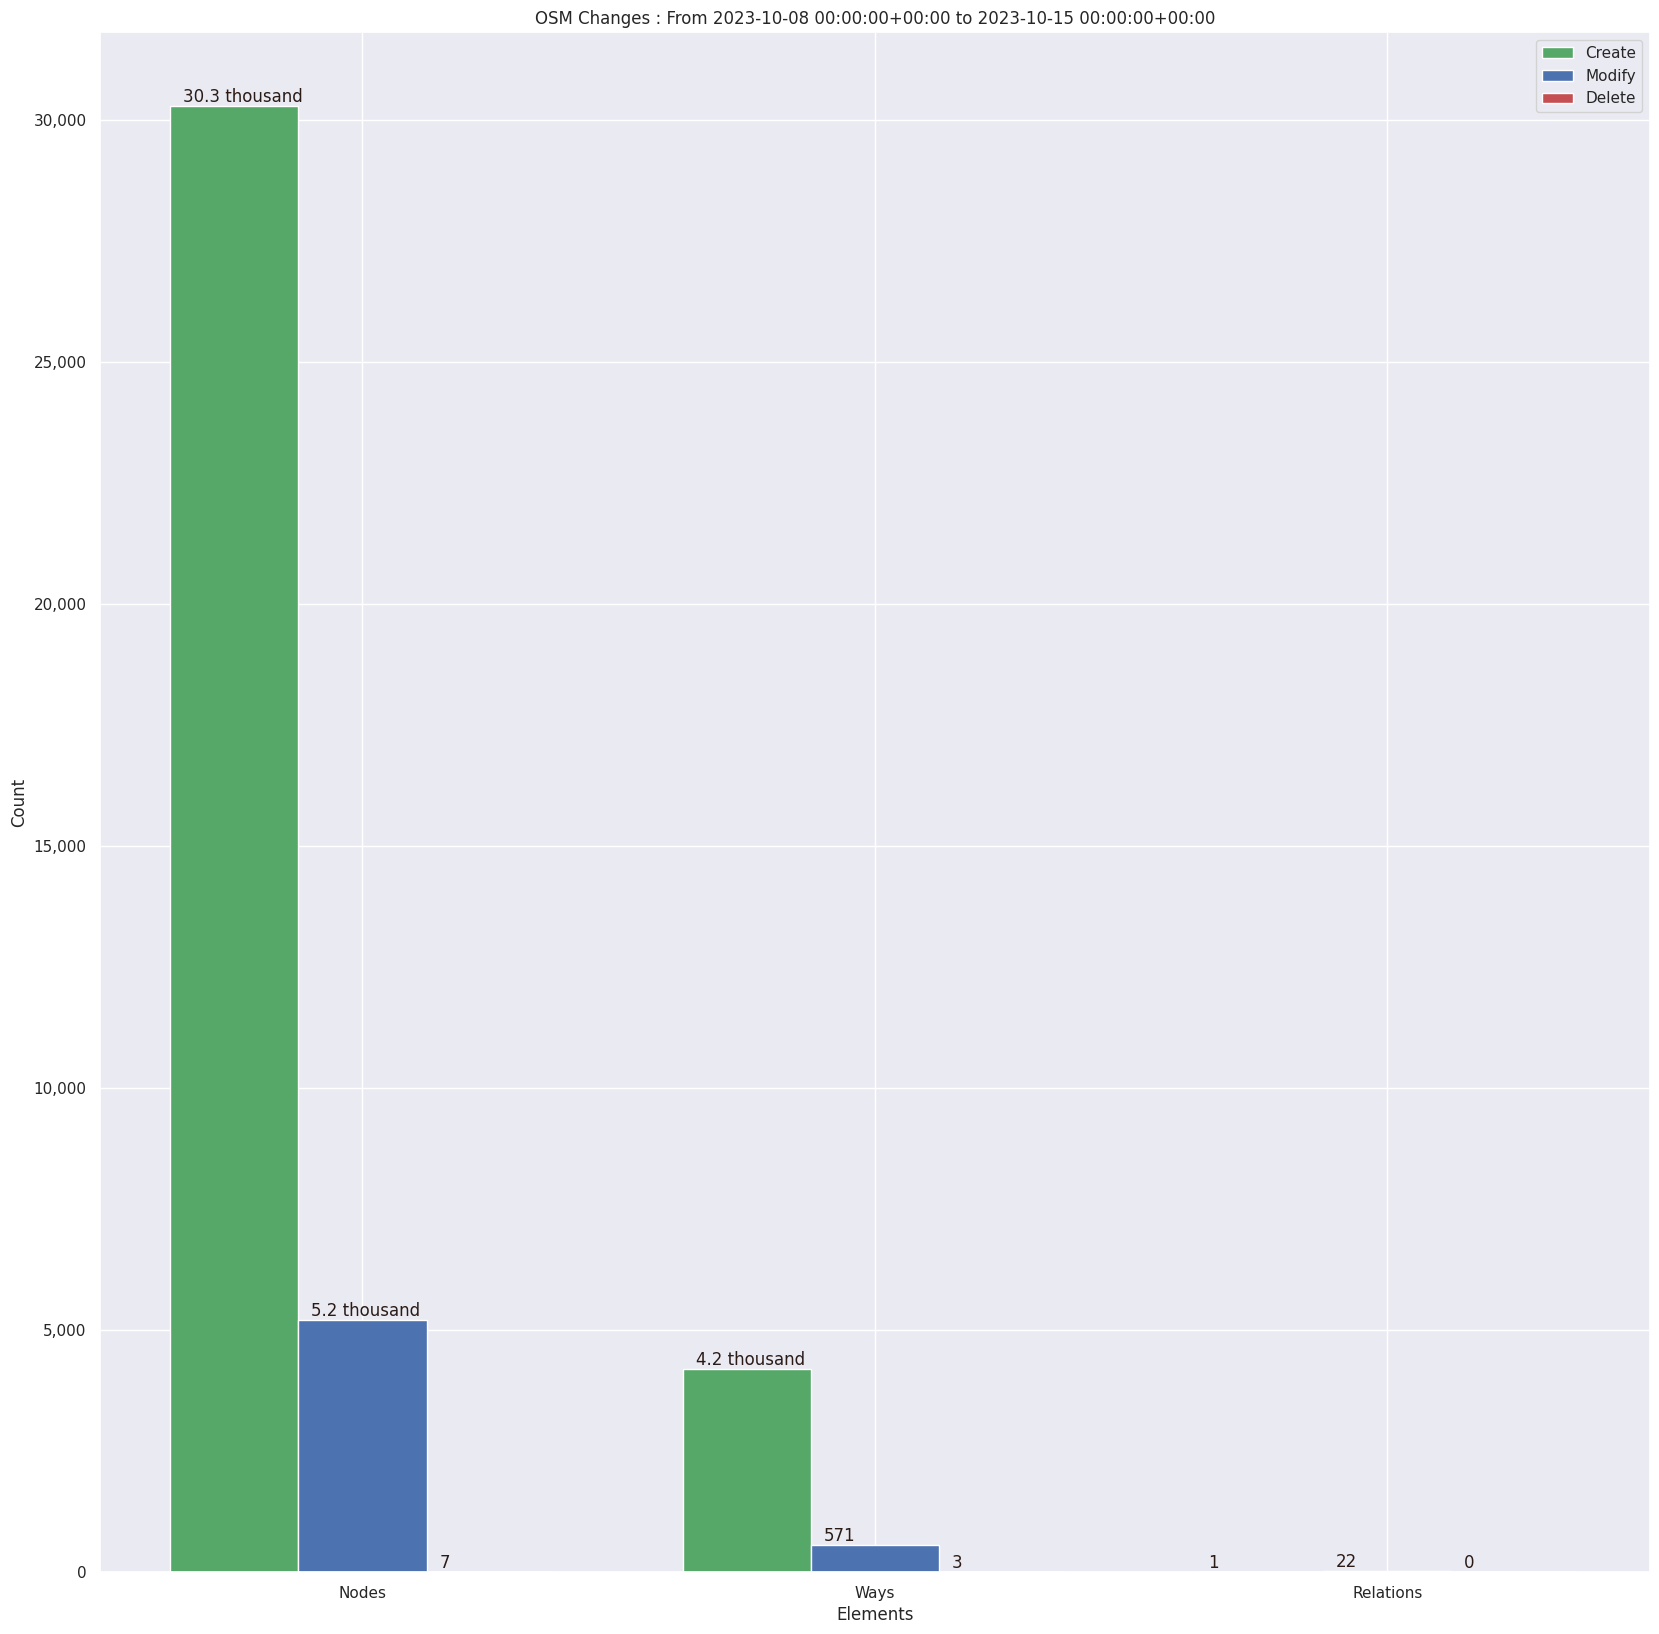
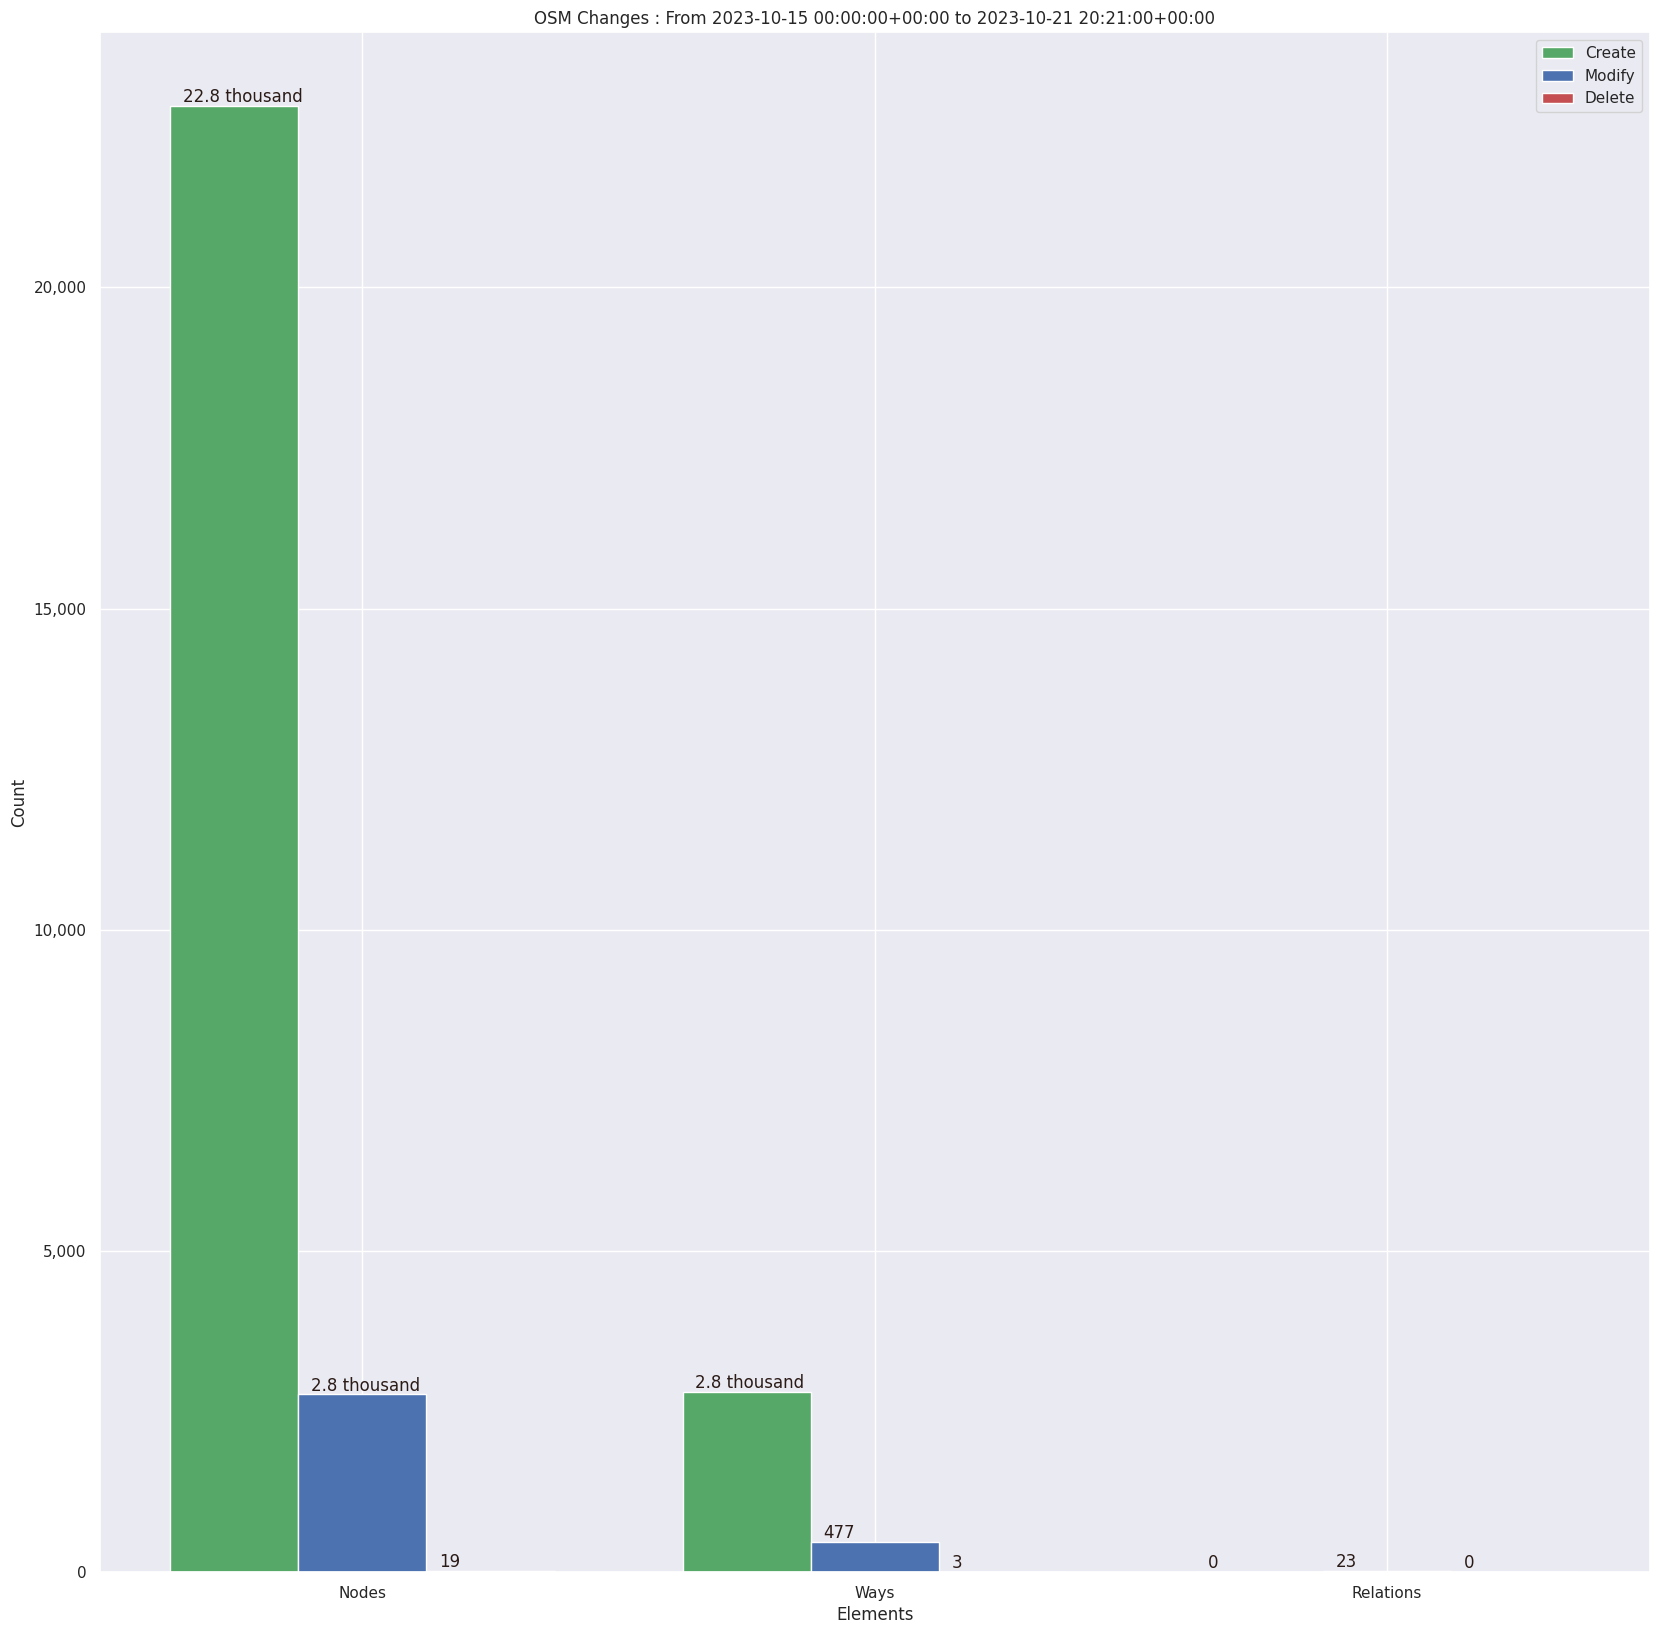
Updated Weekly Nepal Stats

diff --git a/stats/Nepal/Weekly/Readme.md b/stats/Nepal/Weekly/Readme.md
@@ -1,62 +1,62 @@
-### Last Update : Stats from 2023-10-08 00:00:00+00:00 to 2023-10-15 00:00:00+00:00 (UTC Timezone)
+### Last Update : Stats from 2023-10-15 00:00:00+00:00 to 2023-10-21 20:21:00+00:00 (UTC Timezone)
 
-#### 133 Users made 708 changesets with 40.3 thousand map changes.
-#### 34.5 thousand OSM Elements were Created, 5.8 thousand Modified & 10 Deleted.
+#### 81 Users made 438 changesets with 28.9 thousand map changes.
+#### 25.6 thousand OSM Elements were Created, 3.3 thousand Modified & 22 Deleted.
 Get Full Stats at [stats.csv](/stats/Nepal/Weekly/stats.csv)
  & Get Summary Stats at [stats_summary.csv](/stats/Nepal/Weekly/stats_summary.csv)
 
 Top 5 Users are : 
-- Adrie Sonke : 7.0 thousand Map Changes
-- marek kleciak : 4.6 thousand Map Changes
-- rahulwaiba : 2.9 thousand Map Changes
-- Lalit_IAAS : 1.8 thousand Map Changes
-- baum10 : 1.7 thousand Map Changes
+- Pragya Joshi : 9.0 thousand Map Changes
+- marek kleciak : 6.8 thousand Map Changes
+- Adrie Sonke : 3.2 thousand Map Changes
+- Shrestha Shristi : 2.5 thousand Map Changes
+- Jukka Tarkkala : 1.3 thousand Map Changes
 
 Summary of Supplied Tags
-- poi = Created: 104, Modified : 71
-- building = Created: 3.8 thousand, Modified : 96
-- highway = Created: 156, Modified : 286
-- waterway = Created: 138, Modified : 80
-- amenity = Created: 48, Modified : 23
+- poi = Created: 180, Modified : 166
+- building = Created: 2.4 thousand, Modified : 103
+- highway = Created: 208, Modified : 249
+- waterway = Created: 30, Modified : 48
+- amenity = Created: 80, Modified : 45
 
 
 Top 5 Created tags are :
-- building: 3.8 thousand
-- highway: 156
-- waterway: 138
-- intermittent: 126
-- name: 124
+- building: 2.4 thousand
+- highway: 208
+- name: 114
+- amenity: 80
+- name:en: 78
 
 
 Top 5 Modified tags are :
-- highway: 286
-- name: 168
-- building: 96
-- waterway: 80
-- ref: 68
+- name: 272
+- highway: 249
+- website: 114
+- name:en: 106
+- building: 103
 
 
 Top 5 trending hashtags are:
-- #BIPAD : 36 users
-- #YILAB : 35 users
-- #YouthMappers : 35 users
-- #GESAN : 35 users
+- #osmnepal : 6 users
+- #aphub : 5 users
+- #hotosm-project-14310 : 4 users
+- #RemoteMappingBirendranagar : 4 users
 
 
 Top 5 trending editors are:
-- iD 2.21.1 : 54 users
-- iD 2.27.1 : 32 users
-- OsmAnd 4.5.10 : 8 users
-- JOSM/1.5 (18822 en) : 6 users
-- JOSM/1.5 (18746 en) : 5 users
+- iD 2.27.1 : 30 users
+- JOSM/1.5 (18822 en) : 12 users
+- iD 2.21.1 : 10 users
+- JOSM/1.5 (18772 en) : 3 users
+- StreetComplete 54.1 : 3 users
 
 
 Top 5 trending Countries where user contributed are:
-- Nepal : 113 users
-- India : 17 users
-- China : 7 users
-- Bhutan : 1 users
-- Arunachal Pradesh : 1 users
+- Nepal : 69 users
+- China : 5 users
+- India : 5 users
+- Pakistan : 2 users
+- Bhutan : 2 users
 
 
  Charts : 
